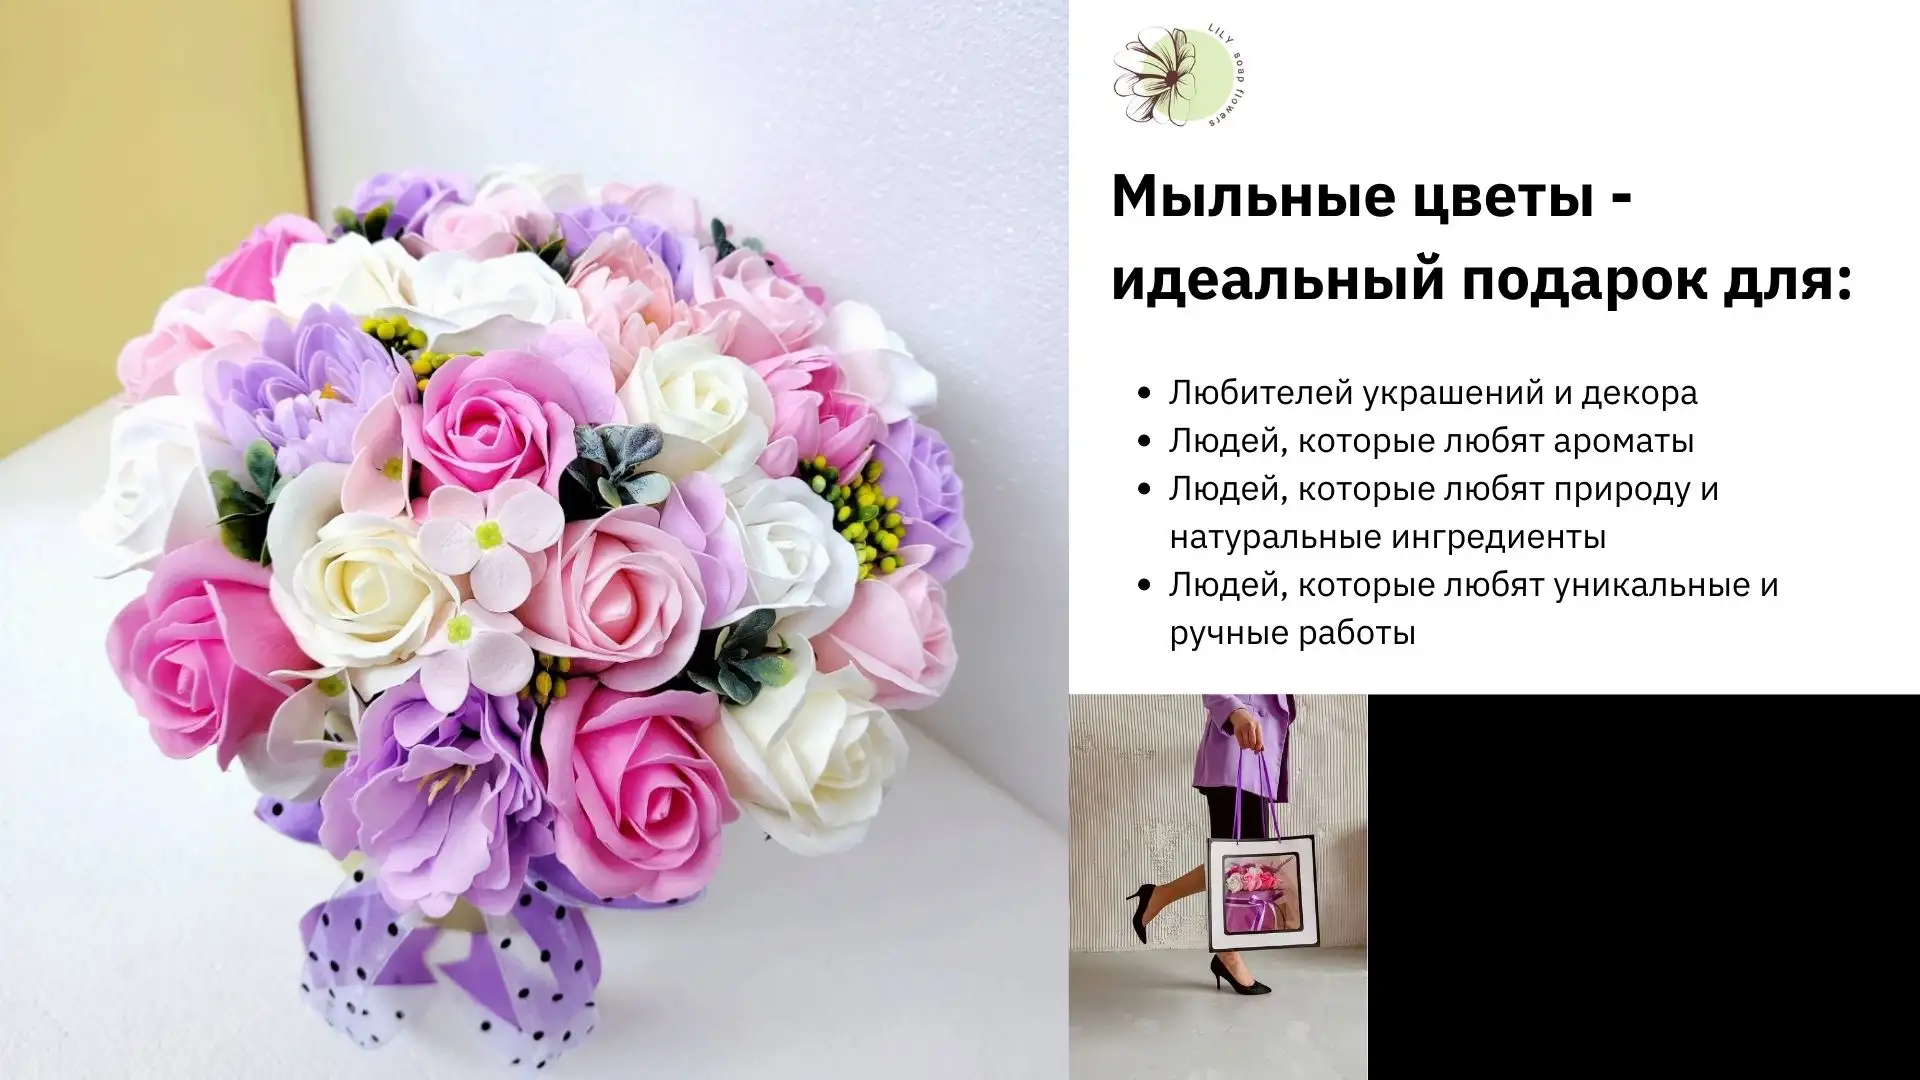
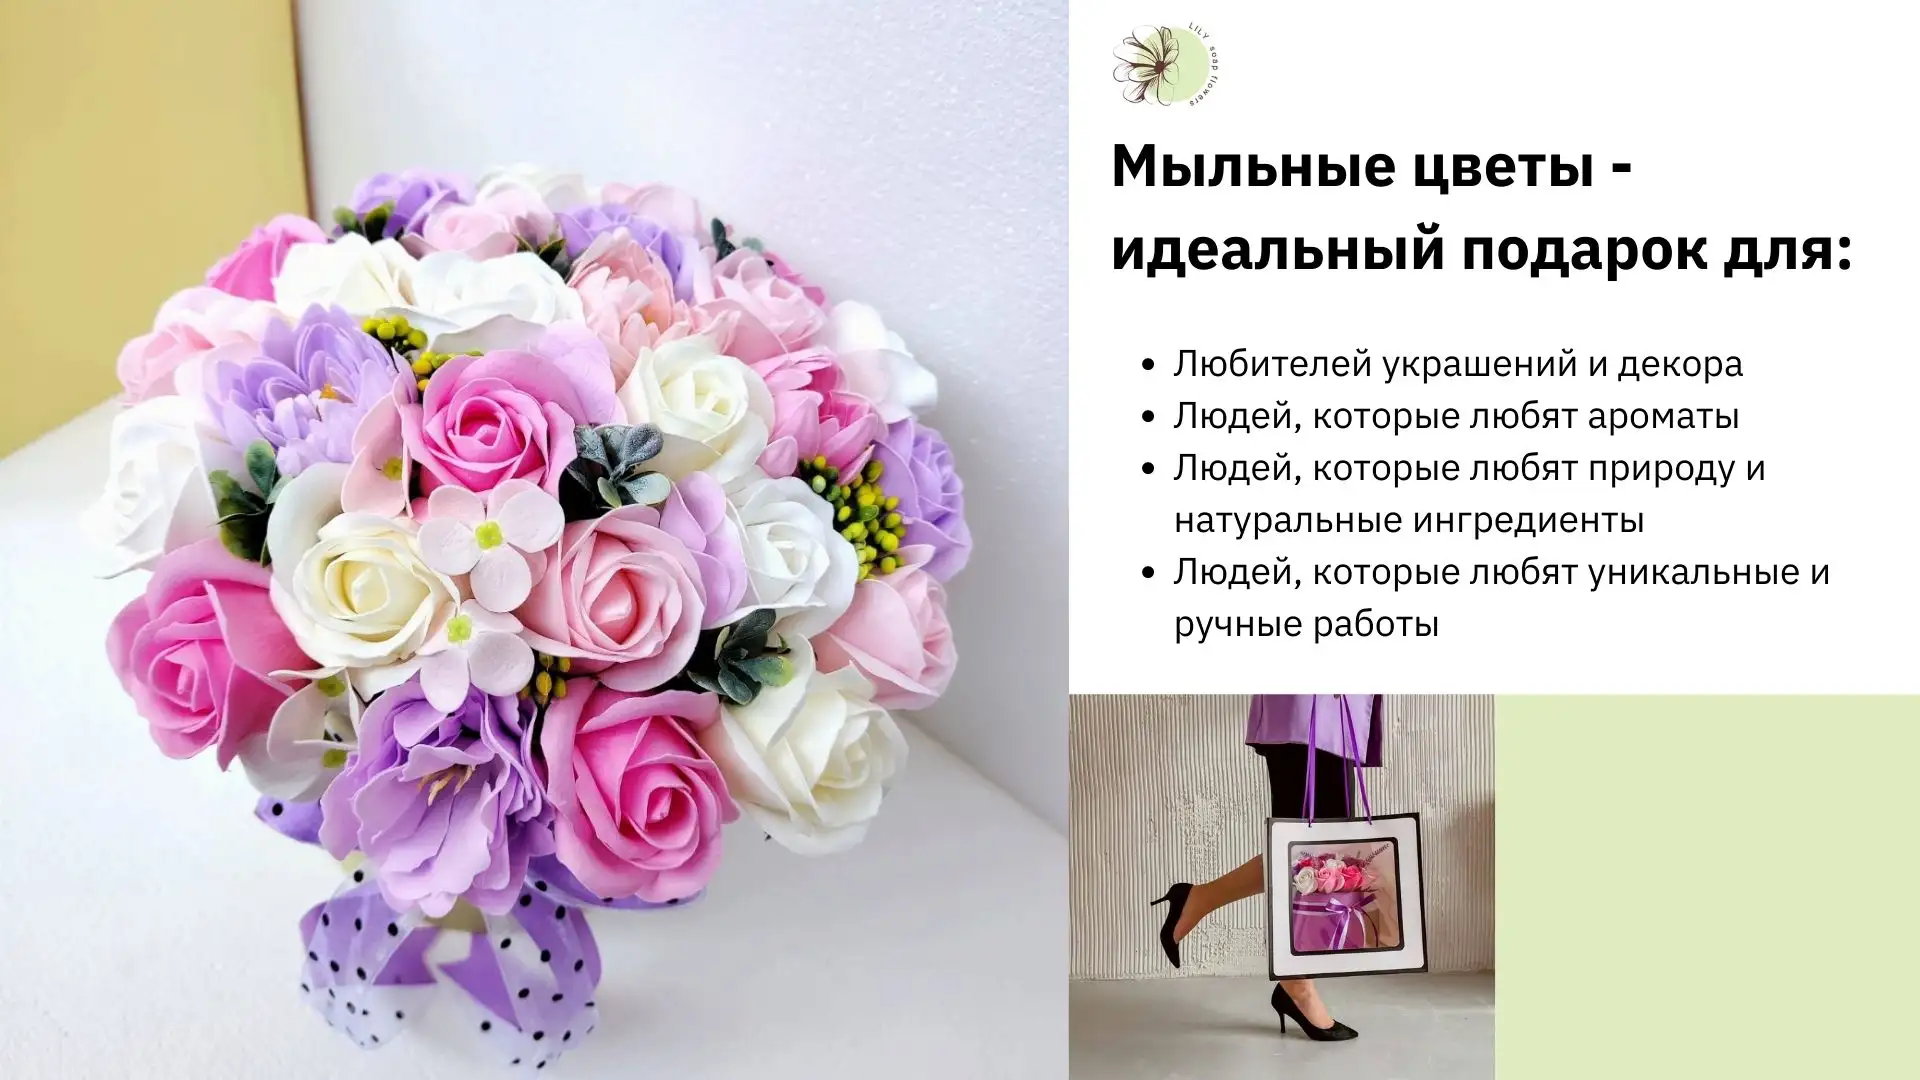
first view client

Changed region(s): [[0.5312, 0.6417, 1.0, 1.0], [0.5938, 0.3056, 0.9375, 0.6111], [0.5625, 0.0306, 0.9688, 0.3056]]

diff --git a/Constants/data/MainCons.js b/Constants/data/MainCons.js
@@ -5,8 +5,8 @@ export const dataMain = [
 		img: '/photos.svg',
 		alt: 'Букеты из цветов иконка фото',
 		title1: 'Фото перед отправкой',
-		width: '30',
-		height: '30',
+		width: '35',
+		height: '35',
 		message:	`
 		Перед отправкой клиенту мыльных цветов я обязательно делаю фотографии букета. Это важный этап в процессе работы, который помогает убедиться в том, что клиент получит то, что заказывал.
 	Фотографии букета я делаю с помощью качественной камеры, чтобы максимально точно передать все оттенки и детали композиции. Это позволяет клиенту оценить внешний вид цветов и убедиться в их свежести.
@@ -20,8 +20,8 @@ export const dataMain = [
 		img: '/time.svg',
 		alt: 'Букеты из цветов иконка время',
 		title1: 'Изготовление в течении дня',
-		width: '25',
-		height: '25',
+		width: '30',
+		height: '30',
 		message: 	`
 		Когда вы заказываете мыльные цветы у нас, мы гарантируем, что они будут изготовлены в течение дня. Мы постараемся выполнить все ваши пожелания и создать цветы, которые полностью соответствуют вашим требованиям.
 	
@@ -37,8 +37,8 @@ export const dataMain = [
 		img: '/gift2.svg',
 		alt: 'Букеты из цветов иконка подарок',
 		title1: 'Упаковка в подарок',
-		width: '30',
-		height: '30',
+		width: '35',
+		height: '35',
 		message: 
 		`
 		Когда вы заказываете мыльные цветы у нас, мы не только гарантируем быстрое и качественное изготовление, но и дарим упаковку. Мы стараемся сделать все возможное, чтобы наш продукт вызвал у вас только положительные эмоции и был отличным подарком для друзей и близких.
@@ -55,8 +55,8 @@ export const dataMain = [
 		img: '/manual.svg',
 		alt: 'Букеты из цветов иконка подарок',
 		title1: 'Инструкция к букету',
-		width: '30',
-		height: '30',
+		width: '35',
+		height: '35',
 		message: `При заказе мыльных цветов у нас вы получаете не только красивый и уникальный подарок, но и инструкцию к букету. Мы ценим наших клиентов и стремимся обеспечить их максимальным комфортом и удобством.
 		Инструкция к букету – это подробное описание того, как ухаживать за вашими мыльными цветами, чтобы они дольше радовали глаз и не теряли свой первоначальный вид. В ней указаны основные правила использования и хранения мыльных цветов.
 		Наша инструкция к букету содержит информацию о том, как не повредить прочность и красоту мыльных цветов, как сохранить их аромат, и как чистить букет. Мы также предоставляем рекомендации по тому, как использовать мыльные цветы на своих мероприятиях, чтобы они прослужили как можно дольше.

diff --git a/components/service/ServiceSection.js b/components/service/ServiceSection.js
@@ -1,6 +1,6 @@
 import Image from "next/image"
 import { Button, Rate, Typography, Badge } from 'antd'
-import { UpOutlined } from '@ant-design/icons'
+import { UpOutlined, FullscreenExitOutlined } from '@ant-design/icons'
 import { useState } from "react"
 import { dataService } from "@/Constants/data/ServiceSection"
 import ModalComp from "../modal/ModalComp"
@@ -30,7 +30,7 @@ const ServiceSection = () => {
 
 
 	return (
-		<section className='bg-white pt-5 pb-1 relative' id="catalog">
+		<section className='bg-white pt-10 pb-1 relative' id="catalog">
 			<div className='container mx-auto'>
 
 				<h2 className="text-4xl font-bold uppercase text-center">
@@ -40,38 +40,52 @@ const ServiceSection = () => {
 				</h2>
 
 
-				<div className="mt-12">
+				<div className="mt-16 flex justify-evenly items-center flex-wrap">
 					{
 						dataService.map(el => {
 							return (
-								<div className="mb-20" key={el.id} id={el.nav}>
+								<div className="mb-20 w-[400px] xyy:mx-0 sm:mx-5 " key={el.id} id={el.nav}>
 									<Badge.Ribbon
 										text={el.badge}
 										color={el.color}
 									>
 										<div
-											className={`border border-gray-200 bg-slate-100 rounded-md relative  shadow-xl ${visible[el.id] ? 'pb-10' : 'pb-0'}`}
+											className={`bg-slate-100 rounded-md relative  shadow-lg ${visible[el.id] ? 'pb-10' : 'pb-0'}`}
 										>
-											<Image
-												src='/click.svg'
-												width='30'
-												alt="иконка клик"
-												height='30'
+											{
+												!visible[el.id] ?
+													<Image
+														src='/click.svg'
+														width='30'
+														alt="иконка клик"
+														height='30'
 
-												className={`absolute top-2 left-2 ${!visible[el.id] ? 'block' : 'hidden'}`}
-											/>
+														className={`absolute top-2 left-2`}
+													/>
+													:
+													<FullscreenExitOutlined
+														className={`absolute top-2 left-2 text-pink-400 text-2xl`}
+														onClick={() => toggleVisibility(el.id, false)}
+													/>
+											}
+
 											<div
 												style={{ '--image-url': `url(${el.img})` }}
-												className={`bg-[image:var(--image-url)] bg-cover bg-center w-full rounded-t-md z-10`}
+												className={`
+												bg-[image:var(--image-url)] bg-cover
+												bg-center w-full rounded-md z-10
+												`}
 												onClick={() => toggleVisibility(el.id, true)}
 											>
 												<div className="h-[40vh]" />
 												<div
 													className={`h-[20vh] flex 
-										justify-center items-end
+										justify-center items-end rounded-b-md
 										 text-pink-400 bg-gradient-to-t
-										 from-white/100 to-white/0
-										 z-20 ${!visible[el.id] ? 'block' : 'hidden'}`}
+										 from-white/100 to-white/0 px-3
+										 z-20 ${!visible[el.id] ? 'block' : 'hidden'}
+
+										 `}
 												>
 													<h3 className="uppercase text-center text-2xl pb-3 font-semibold">
 														{el.title}

diff --git a/components/main/MainComp.js b/components/main/MainComp.js
@@ -28,19 +28,18 @@ export const MainComp = () => {
 				<div className='w-full h-screen fon bg-cover bg-center' />
 				<main className="">
 
-
 					{
 						screens.lg ?
 							<div className="flex">
 								<div className="w-4/6">
 									<CarouselComp />
 								</div>
-								<div className="bg-white w-2/6 relative px-5 py-4  shadow-xl">
+								<div className="w-2/6 bg-white relative px-10 pt-20 pb-4  shadow-xl">
 									{
 										dataMain.map(el => {
 											return (
 												<div
-													className="flex items-center mt-2 cursor-pointer"
+													className="flex items-center mb-4 cursor-pointer"
 													onClick={() => showModal(el.title1, el.message)}
 													key={el.id}
 												>
@@ -50,7 +49,7 @@ export const MainComp = () => {
 														height={el.height}
 														alt={el.alt}
 													/>
-													<span className="font-light ml-2 uppercase">
+													<span className="font-light ml-4 uppercase">
 														{el.title1}
 													</span>
 												</div>
@@ -64,10 +63,11 @@ export const MainComp = () => {
 					}
 
 					<section className='container mx-auto relative mb-20'>
-						<h1 className="mt-20 xyy:text-4xl sm:text-7xl uppercase font-semibold text-white mb-16">
-							Букеты из мыла
-						</h1>
-
+						<div className="sm:h-[60vh] xyy:h-auto">
+							<h1 className="mt-20 xyy:text-4xl sm:text-8xl uppercase font-semibold text-white mb-16">
+								Букеты из мыла
+							</h1>
+						</div>
 						{
 							!screens.lg && dataMain.map(el => {
 								return (

diff --git a/components/header/Header.js b/components/header/Header.js
@@ -1,18 +1,18 @@
 import React from 'react'
 import { useScreens } from '@/Constants/constants'
-import ComputerHeader from './ComputerHeader'
+// import ComputerHeader from './ComputerHeader'
 import MobilHeader from './MobilHeader'
 
 const Header = () => {
-	const screens = useScreens()
+	// const screens = useScreens()
 	return (
 		<header>
-			{
+			{/* {
 				screens.lg ?
 					<ComputerHeader />
-					:
+					: */}
 					<MobilHeader />
-			}
+			{/* } */}
 		</header>
 	)
 }

diff --git a/components/header/MobilHeader.js b/components/header/MobilHeader.js
@@ -21,7 +21,7 @@ const MobilHeader = () => {
 
 					<div className='w-1/2 text-[#613538]'>
 						<p className='text-xs'>
-							режим работы 24/7
+							приём заказов 24/7
 						</p>
 						<a href='tel:80291925166'>
 							+375(29) 192-51-66 

diff --git a/components/modal/ModalComp.js b/components/modal/ModalComp.js
@@ -16,7 +16,7 @@ const ModalComp = (
 	return (
 		<>
 			<Modal
-				title={`Ваш заказ: ${title}`}
+				title={`${!isActive ? 'Ваш заказ:': ''} ${title}`}
 				open={isModalOpen}
 				onCancel={handleCancel}
 				footer={false}
